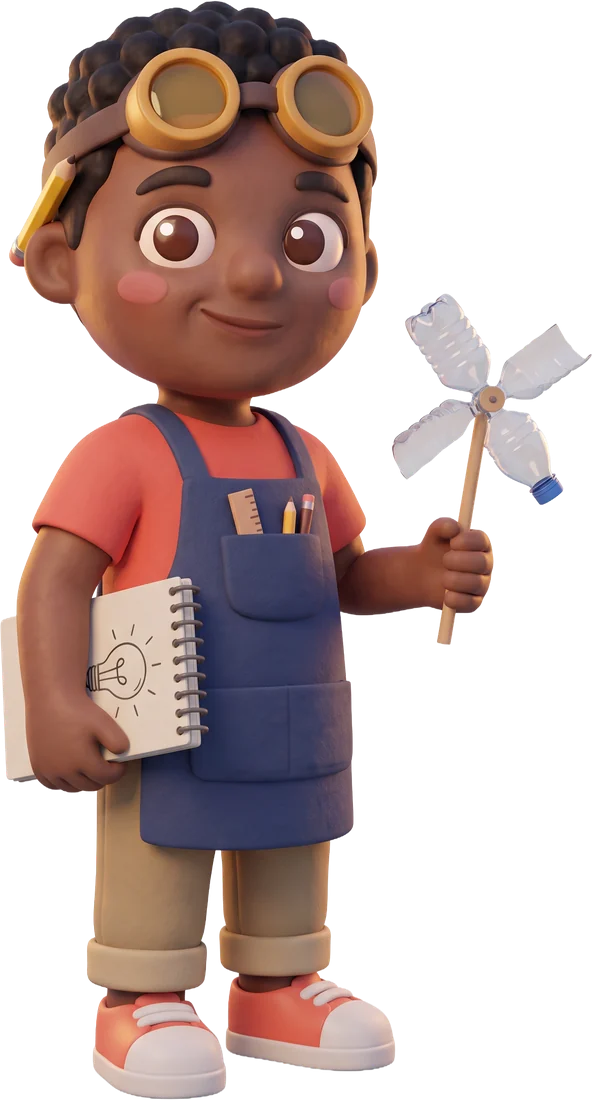
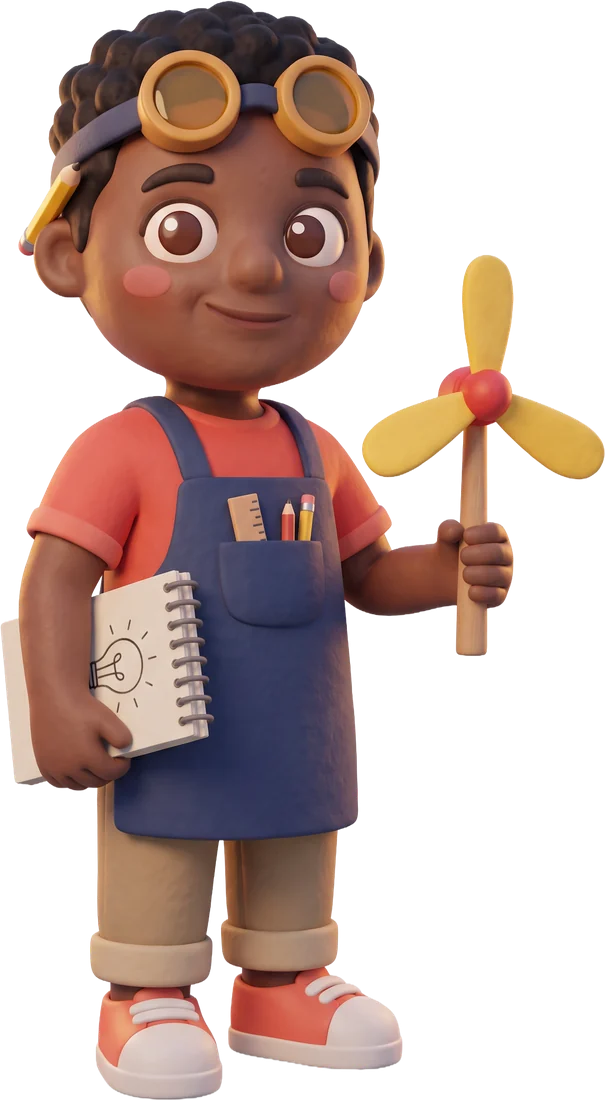
Julián con su molino nuevo, centrado por su eje (2.7.7)

diff --git a/css/chispa.css b/css/chispa.css
@@ -1166,4 +1166,6 @@ html[data-movimiento="menos"] *, html[data-movimiento="menos"] *::before, html[d
 .avatares button .av-img[src$=".webp"] { left: 6%; top: 12%; width: 88%; height: auto; transform: none; }
 .mi-inventor .av-mini[src$=".webp"] { left: 0; top: 4%; width: 100%; height: 100%; transform: none; object-fit: cover; }
 @media (max-height: 760px) { .avatares button .av-img[src$=".webp"] { left: 13%; top: 4%; width: 74%; } }
-.zona-heroe:has(.vista) .zona-quien[src*="personaje-julian"] { /* el molinete sobresale: se centra el cuerpo como el de los demás vecinos */ right: calc(4% - 30px); }
+/* Julián sostiene el molino a un lado: su eje (cabeza y piernas) queda al 37 % del ancho de la imagen y no al centro.
+   Se corre 23,5 % de su propio ancho para que el eje coincida con el de los demás vecinos anclados a la derecha. */
+.zona-heroe:has(.vista) .zona-quien[src*="personaje-julian."], .zona-pin.der .vecino img[src*="personaje-julian."] { transform: translateX(23.5%); }

diff --git a/sw.js b/sw.js
@@ -1,6 +1,6 @@
 /* chispa · service worker: guarda la app y sus ilustraciones para que abra sin internet. No envía nada a ningún lado. */
 'use strict';
-const VERSION = 'chispa-v2.7.6';
+const VERSION = 'chispa-v2.7.7';
 const VOZ = 'chispa-voz-1';
 importScripts('js/imagenes.js', 'js/audios.js');
 const NUCLEO = ['./', './index.html', './manifest.webmanifest', './css/chispa.css',

diff --git a/README.md b/README.md
@@ -34,6 +34,7 @@ Ningún juego tiene tiempo límite. En el arroyo lo que se mueve se puede pausar
 - **Revisión en Figma, ronda 5 (2.7.4):** íconos de edad rehechos: una matita en su matera y un árbol con frutos, ambos con carita, sobre un círculo de color, más grandes y con un saltito al elegirlos.
 - **Revisión en Figma, ronda 5 (2.7.5):** los íconos de edad vuelven a su versión anterior. Nuevo vecino: **Julián, inventor de la plaza** (generado con Adobe Firefly). Guía los episodios de la Plaza, tiene su cromo y su sorpresa en el álbum, aparece en el mapa al completar la Plaza, entre los vecinos de la apertura y firma el diploma junto a Cocuyo.
 - **Revisión en Figma, ronda 6 (2.7.6):** la cara de Julián queda centrada en su círculo como la de los demás vecinos (apertura, álbum, avisos y diploma); en los episodios y en la Plaza su cuerpo se ancla como el de los otros, sin que el molinete lo corra a un lado.
+- **Julián rehecho (2.7.7):** ahora sostiene un molino de viento de juguete con aspas amarillas en vez del molinete de botella. Su cara se recortó de nuevo con la misma cruz de centrado de los demás vecinos, y su cuerpo se corre según su eje (cabeza y piernas) para que el molino no lo desplace en la Plaza ni en el mapa.
 - **Revisión en Figma, ronda 3 (2.7.2):** el escenario de la elección ya no tiene globo: Cocuyo vuela a la izquierda con una estela de luz hacia el inventor, y la pregunta «¿Quién va a inventar hoy?» pasa a ser el título. El ícono del barrio recupera detalle (tejas, chimenea, ventana encendida, puerta, árbol, flores y camino) con contorno solo en las formas grandes.
 - **Revisión en Figma, ronda 2 (2.7.1):** el punto de la «i» del logo ahora es la chispa de la app; el botón de la apertura va sin ícono; el escenario de la elección usa el fondo de la plaza a nivel de calle, con Cocuyo pequeño y el globo sin tapar al inventor; la edad lleva una planta pequeña (Explorador) y un árbol (Experto); el mapa de noche ya no ilumina el muro amarillo del colegio (solo ventanas); la abuela aparece junto a la casa al completarla; el ícono del casillero vuelve a ser el casillero, con la chispa adentro, y el del barrio se simplificó.
 - **Revisión en Figma, ronda 1 (2.7):**
